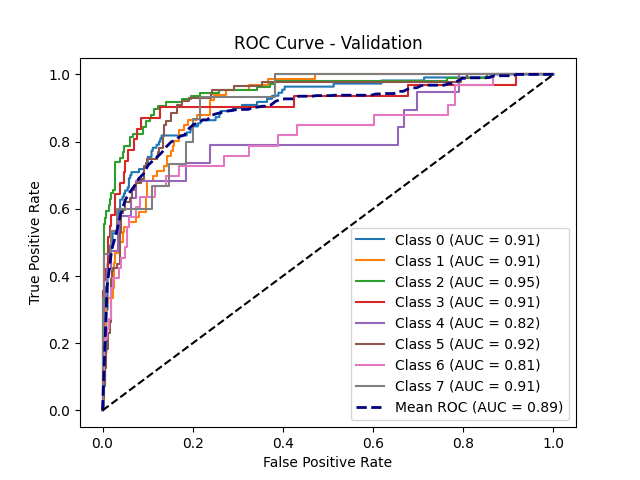
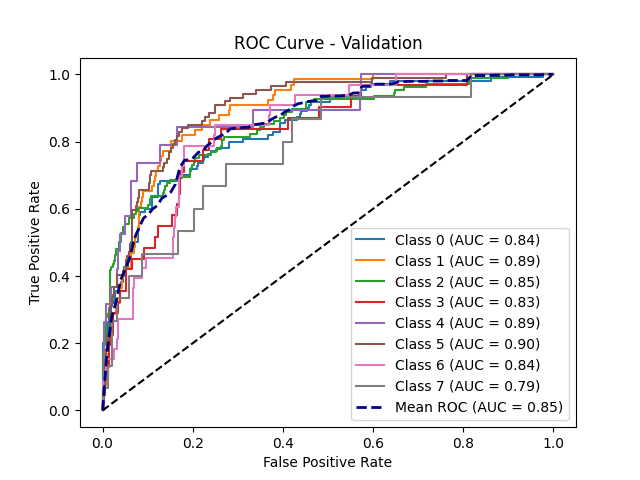
large patch embedder and large trans encoder

diff --git a/fusion_models.py b/fusion_models.py
@@ -371,7 +371,7 @@ class MultiClassificationTorch_Imagenet_replaced_transformer(nn.Module):
         patch_size=32
         embed_dim=256
         num_heads=4
-        num_layers=6
+        num_layers=10
         self.backbone = ThreeModalTransformerClassifier(img_size=img_size, patch_size=patch_size, embed_dim=embed_dim, num_heads=num_heads, num_layers=num_layers, num_classes=num_classes, dropout = 0.1, common_root_patcher = True)
         self.loss_fn = nn.BCEWithLogitsLoss(pos_weight=torch.tensor([5.0] * num_classes))
 

diff --git a/us_models.py b/us_models.py
@@ -247,6 +247,8 @@ class PatchEmbed(nn.Module):
         self.grid_size = img_size // patch_size
         self.num_patches = self.grid_size ** 2
         self.proj = nn.Conv2d(in_chans, embed_dim, kernel_size=patch_size, stride=patch_size)
+        self.proj2 = nn.Conv2d(embed_dim, embed_dim, kernel_size=1, stride=1)
+        self.proj3 = nn.Conv2d(embed_dim, embed_dim, kernel_size=1, stride=1)
 
     def forward(self, x):
         # x: [B, 1, H, W] → [B, embed_dim, H//P, W//P] → [B, num_patches, embed_dim]
